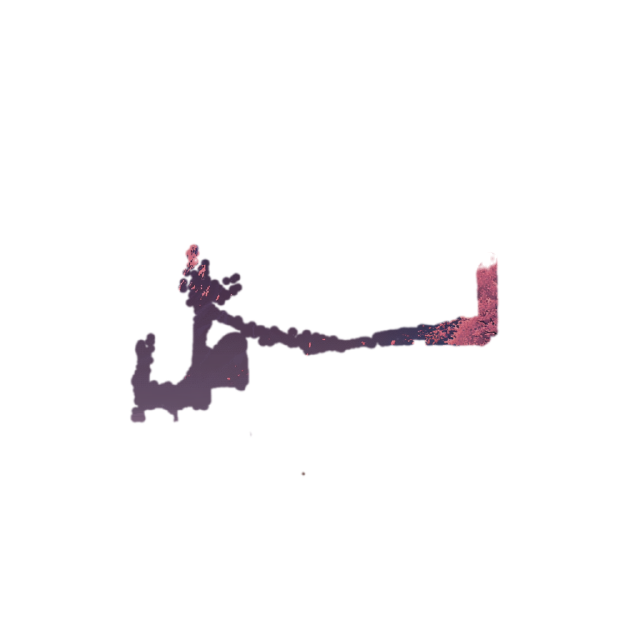
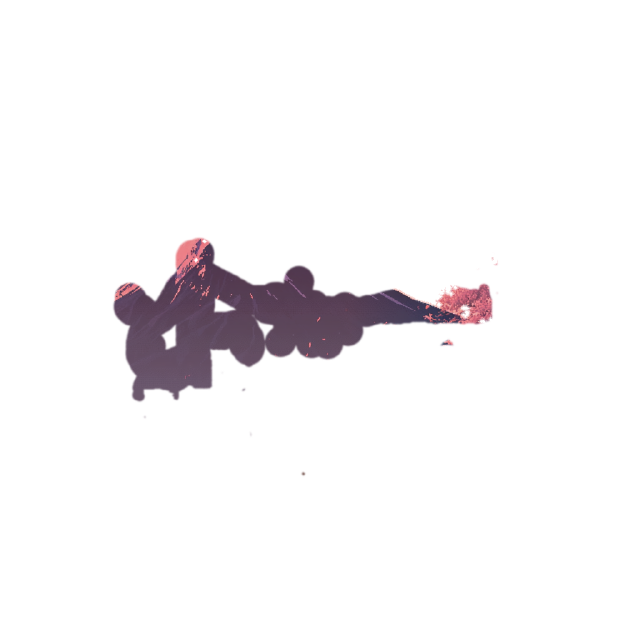
Fuji plus clair et plus bas, arbre seul à droite, contours dissous dans le décor

Changed region(s): [[0.1562, 0.375, 0.7812, 0.6562]]

diff --git a/index.html b/index.html
@@ -262,9 +262,9 @@
   }
 
   // mount Fuji and its sakura in the sky gap, behind the skyline and the flying events
-  plane('assets/fuji_night.webp', 376, 45, 640, 640, -1.5);
+  plane('assets/fuji_night.webp', 376, 66, 640, 640, -1.5);
   // hand-picked pixels of the same layer promoted in front of the city, so the foliage covers the wires
-  plane('assets/fuji_front.webp', 376, 45, 640, 640, 0.5);
+  plane('assets/fuji_front.webp', 376, 66, 640, 640, 0.5);
 
   // billboard on the left facade playing the Luffy loop, times-square style; street cables pass in front
   const luffyBez = new THREE.Mesh(new THREE.PlaneGeometry(41, 53), new THREE.MeshBasicMaterial({ color: 0x141026, transparent: true, depthWrite: false }));
